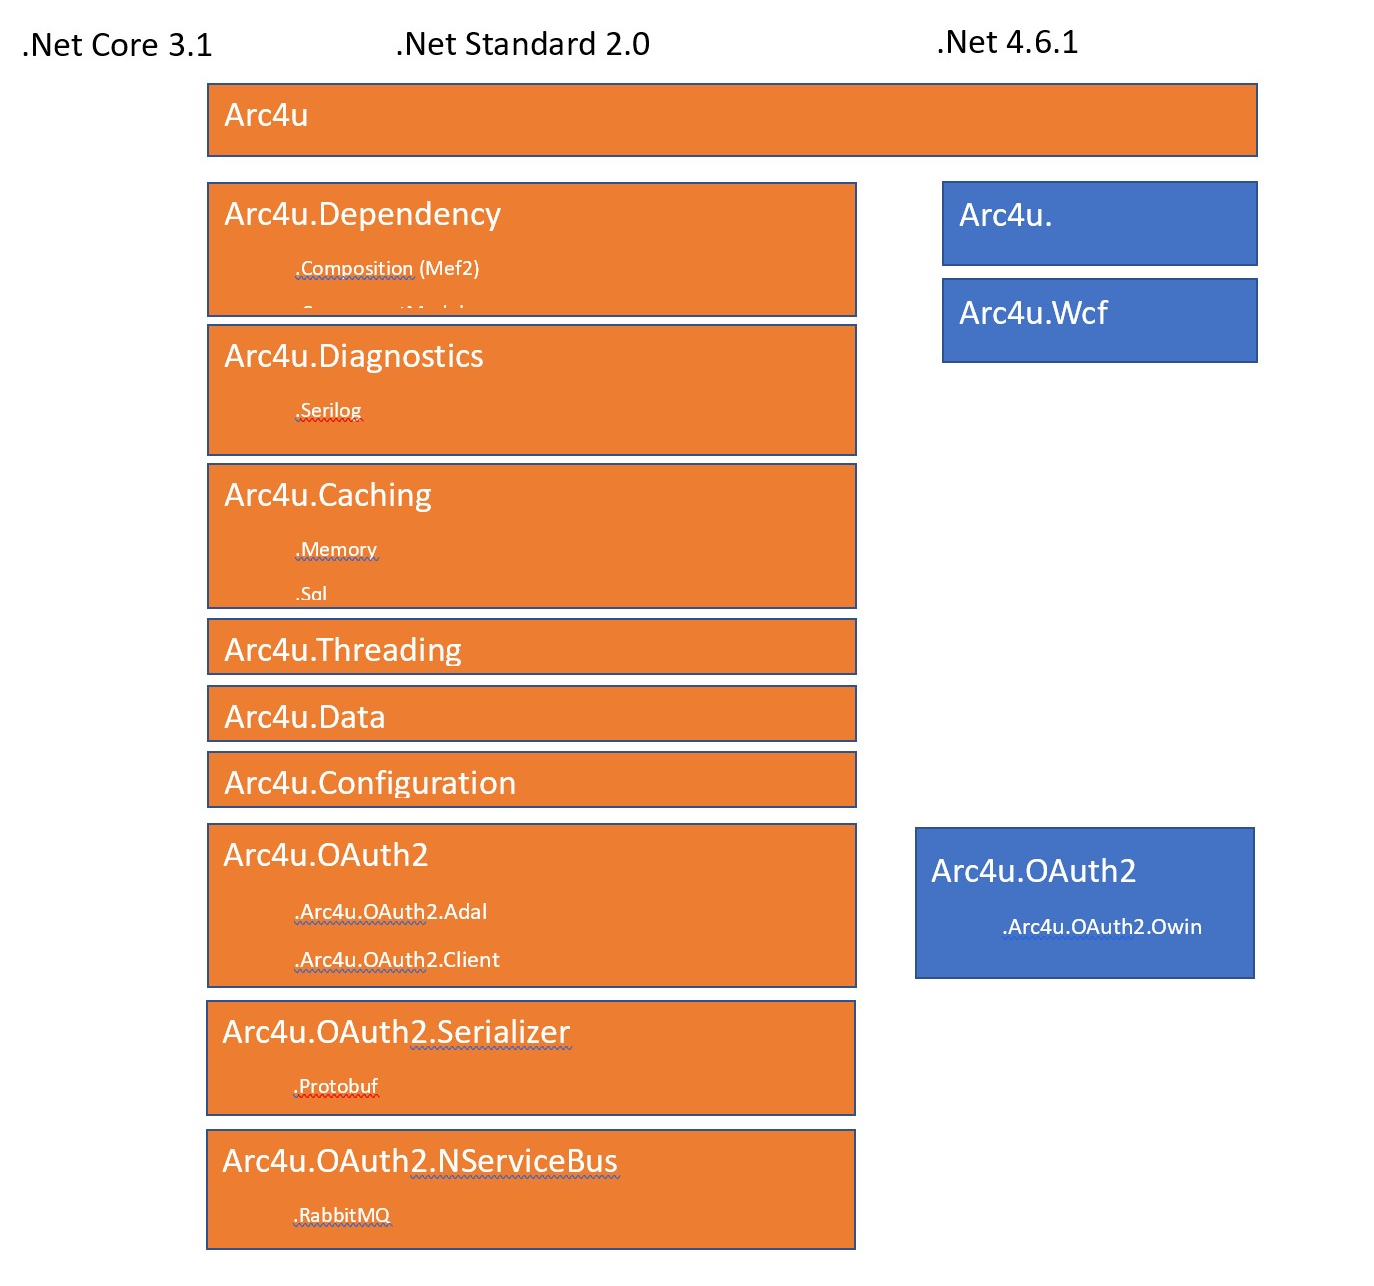
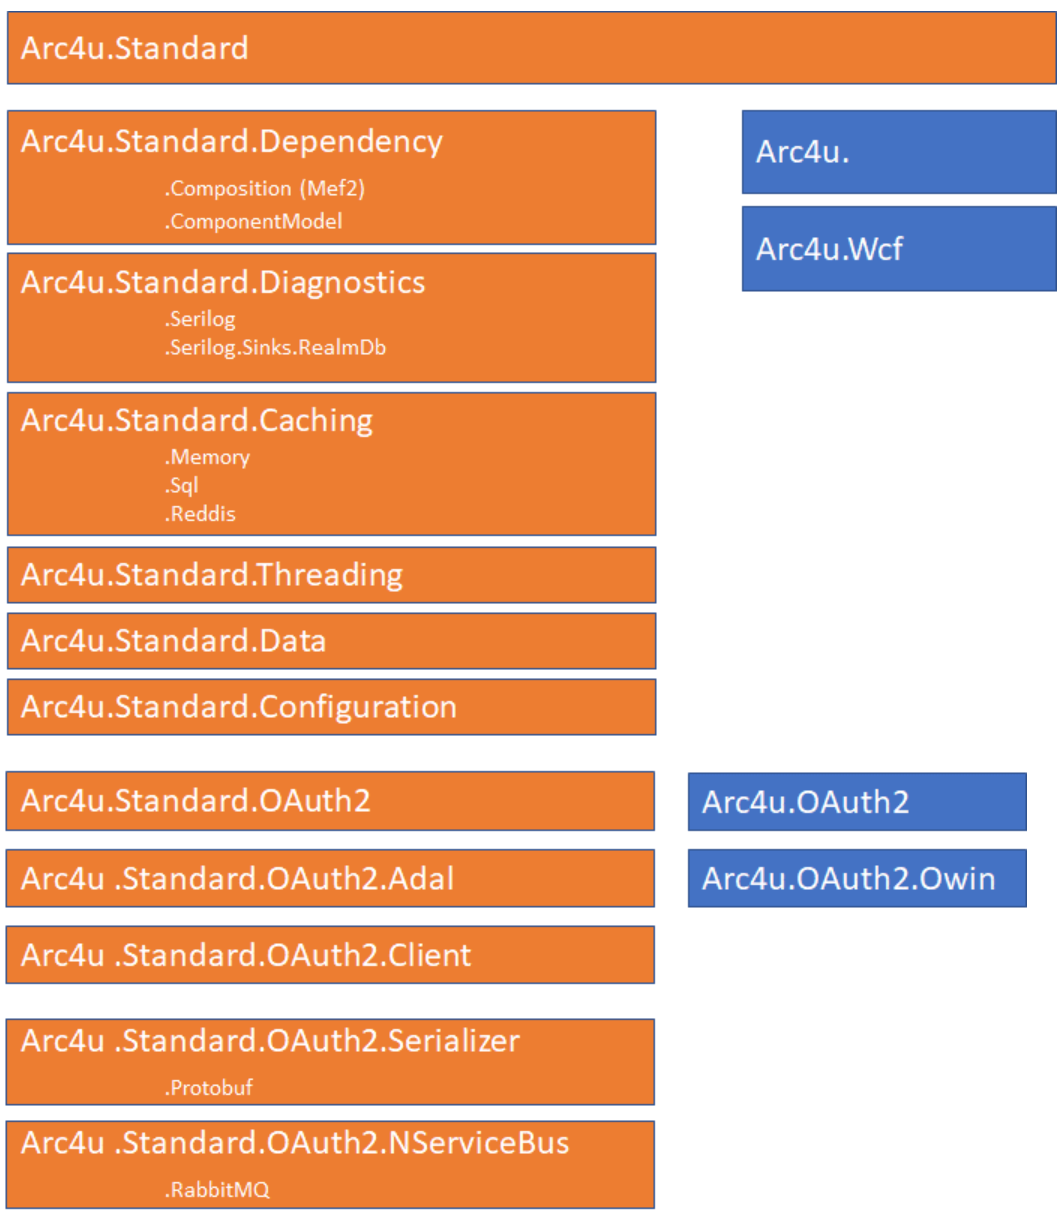
Dependency

diff --git a/Framework/Dependency.md b/Framework/Dependency.md
@@ -1,0 +1,129 @@
+# Dependency
+
+Modern applications use an Ioc engine to decouple the code from the implementation and allow also a better unit testing.
+
+In Arc4u, the skeleton of the framework is heavily based on the [inversion of control principle](https://en.wikipedia.org/wiki/Inversion_of_control). 
+
+Finaly the framework is a set of functionality that can be injected when needed in your application.
+
+The Api is defined in the nuget package Arc4u.Standard.Dependency and contains principaly 2 concepts.
+
+The first one is the definition (abstraction) of a container.
+The second is a singleton class: DependencyContext, used to work with the underneath container.
+
+## IContainer.
+
+The abstration of the Ioc engine is built via the IContainer interface.
+
+````csharp
+
+    public interface IContainer : IContainerRegistry, IContainerResolve, IServiceProvider
+    {
+        Object Instance { get; }
+    }
+````
+
+This interface contains mainly 2 parts: the registration and the resolve.
+
+Each Ioc container used in the framework implements this interface.
+
+During the registration process we can do:
+
+````csharp
+   public interface IContainerRegistry
+    {
+        void Register<TFrom, To>() where TFrom : class where To : class, TFrom;
+        void Register(Type from, Type to);
+
+        void Register<TFrom, To>(string name) where TFrom : class where To : class, TFrom;
+        void Register(Type from, Type to, string name);
+
+        void RegisterFactory<T>(Func<T> exportedInstanceFactory) where T : class;
+        void RegisterFactory(Func<object> exportedInstanceFactory, Type type);
+
+        void RegisterSingletonFactory<T>(Func<T> exportedInstanceFactory) where T : class;
+        void RegisterSingletonFactory(Func<object> exportedInstanceFactory, Type type);
+
+        void RegisterInstance<T>(T instance) where T : class;
+        void RegisterInstance(Type type, object instance);
+
+        void RegisterInstance<T>(T instance, string name) where T : class;
+        void RegisterInstance(Type type, object instance, string name);
+
+        void RegisterSingleton(Type from, Type to);
+        void RegisterSingleton<TFrom, To>() where TFrom : class where To : class, TFrom;
+
+        void RegisterSingleton<TFrom, To>(string name) where TFrom : class where To : class, TFrom;
+        void RegisterSingleton(Type from, Type to, string name);
+
+        void Initialize(Type[] types, params Assembly[] assemblies);
+
+        void CreateContainer();
+    }
+````
+
+
+## DependencyContext.
+
+DependencyContext is a singleton class which is used everywhere in the application to resolve any type registered.
+
+DependencyContext will not access the registration part of the container but only the resolve methods.
+
+When we use an Ioc we often inject a type using the constructor of the type. 
+Sometimes we need to create a type under certain cirsumstance: on demand. 
+Or we need to create a specific implementation based on a criteria.
+An example for this is in a rule engine where different implementation exist and based on a string (coming from a database) we can resolve a specific implementation.
+In this case, we cannot do this via the constructor!
+
+Each Ioc engine have their specific way of working. The target of the DependencyContext is to homogenize the different behaviors.
+
+The golden rules of the DependencyContext are:
+- Once created, we cannot add new type to the container.
+- Injecting a type via a constructor cannot be named (via a string to select an implementation).
+
+Basically the pseudo code to work with a container and DependencyContext is:
+
+````csharp
+    var container = new ContinerXXX();
+    // Add registration.
+    container.Register<IObject, Object>();
+    container.RegisterSingleton<IObject2, Object2_0>("A");
+    container.RegisterSingleton<IObject2, Object2_1>("B");
+
+    container.CreateContainer(); 
+
+    DependencyContext.CreateContext(container);
+
+    // anywhere in the code.
+    var instance = DependencyContext.Current.Resolve<IObject2>("A");
+
+    ...
+````
+
+2 Containers exist in Arc4u:
+- System.Composition (mef2), used before.
+- System.ComponentModel used currently in .Net core.
+
+All the types in the framework are defined via the attributed model of mef2. Even if the Ioc is not used, the attributes:
+- Export
+- Shared
+are used to discover this dynamically and register the types in the Ioc.
+
+>! Important
+> Arc4u.Dependency also contains a definition of Export and Shared. If you don't use Mef2 implementation
+> you can se those attributes. For .Net application, System.Composition.AttributeModel is used and in .Net Core, only 
+> the Arc4u attribute will be used. 
+
+### Arc4u.Dependency.Composition
+
+Used the System.Composition (mef2) with all the possibilities from this Ioc:
+- Accept constructor with a named version X([Import("A") IObject2])...
+- Accept property injection => Strongly not recommended.
+
+### Arc4u.Dependency.ComponentModel
+
+Used the System.ComponentModel (.Net core) implementation:
+- Doesn't accept a named constructor X(IObject2 o).
+- Doesn't accept a property injection.
+
+

diff --git a/Framework/General.md b/Framework/General.md
@@ -1,9 +1,9 @@
 # Arc4u
 
-Arc4u is originaly based on architecture for you.
-The target of this framework is to provide a frmework where most of the common features needed by an application is covered.
+Arc4u means: architecture for you.
+The target of this framework is to provide a framework where most of the common features needed by an application is covered.
 
-The new version 3.1.0.0 is a migration from the .Net one but completely revisited to use the latest feature of .Net Core 3.1.
+The new version 3.1.2 is a migration from the .Net one but completely revisited to use the latest feature of .Net Core 3.1.
 
 The features are:
 - The caching.
@@ -18,9 +18,9 @@ Two implementations exist:
 - Arc4u.Dependency.Composition (used eagerly by .Net, Mef2).
 - Arc4u.Dependency.ComponentModel (used by .Net core 3.1).
 
-Those can be instantiated but the code doesn't know the container used.
+During the initialization, one of the container technology is used but when you code your business logic, you are agnostic of the container technology used.
 
-The same philosophy is used for the logging, the serialization and OAuth2 (where differents token provider can be used).
+The same philosophy is used for the logging, the serialization, caching and OAuth2 (where differents token provider can be used).
 
 ## The framework.
 
@@ -30,8 +30,8 @@ The way the framework is built is always based with 2 aspects in mind:
 - abstraction
 - and injection.
 
-Abstraction allows a developer to work with a concept with no affinity with a particular concept. 
+Abstraction allows a developer to work with a concept with no affinity with a particular technology. 
 Injection means that the framework resolve implementation based on interfaces so you can change the behaviour as much as possible.
 
-## Dependency
+
 
